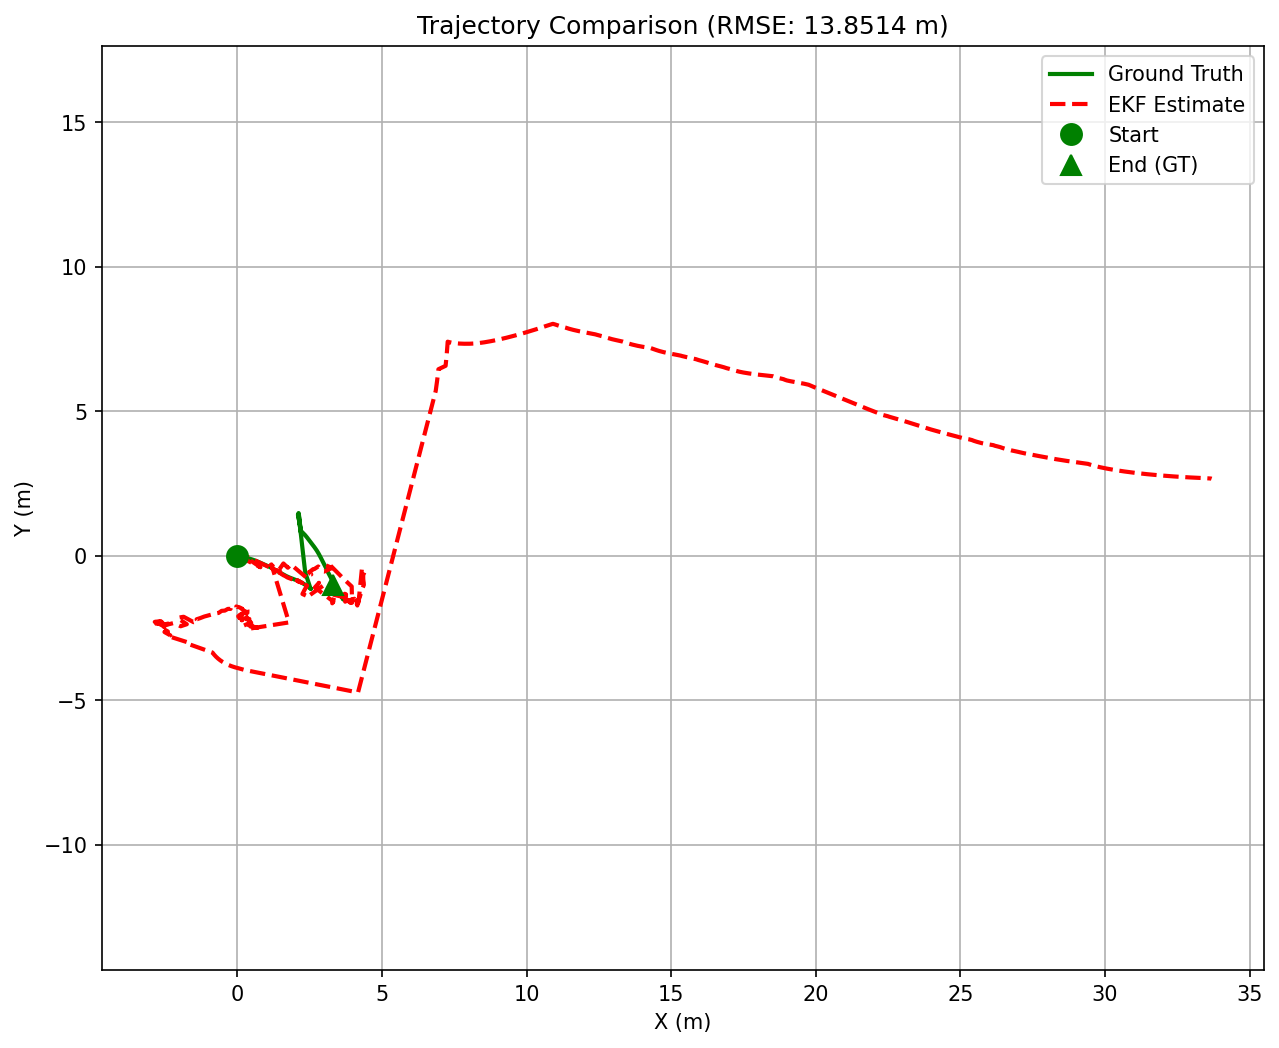
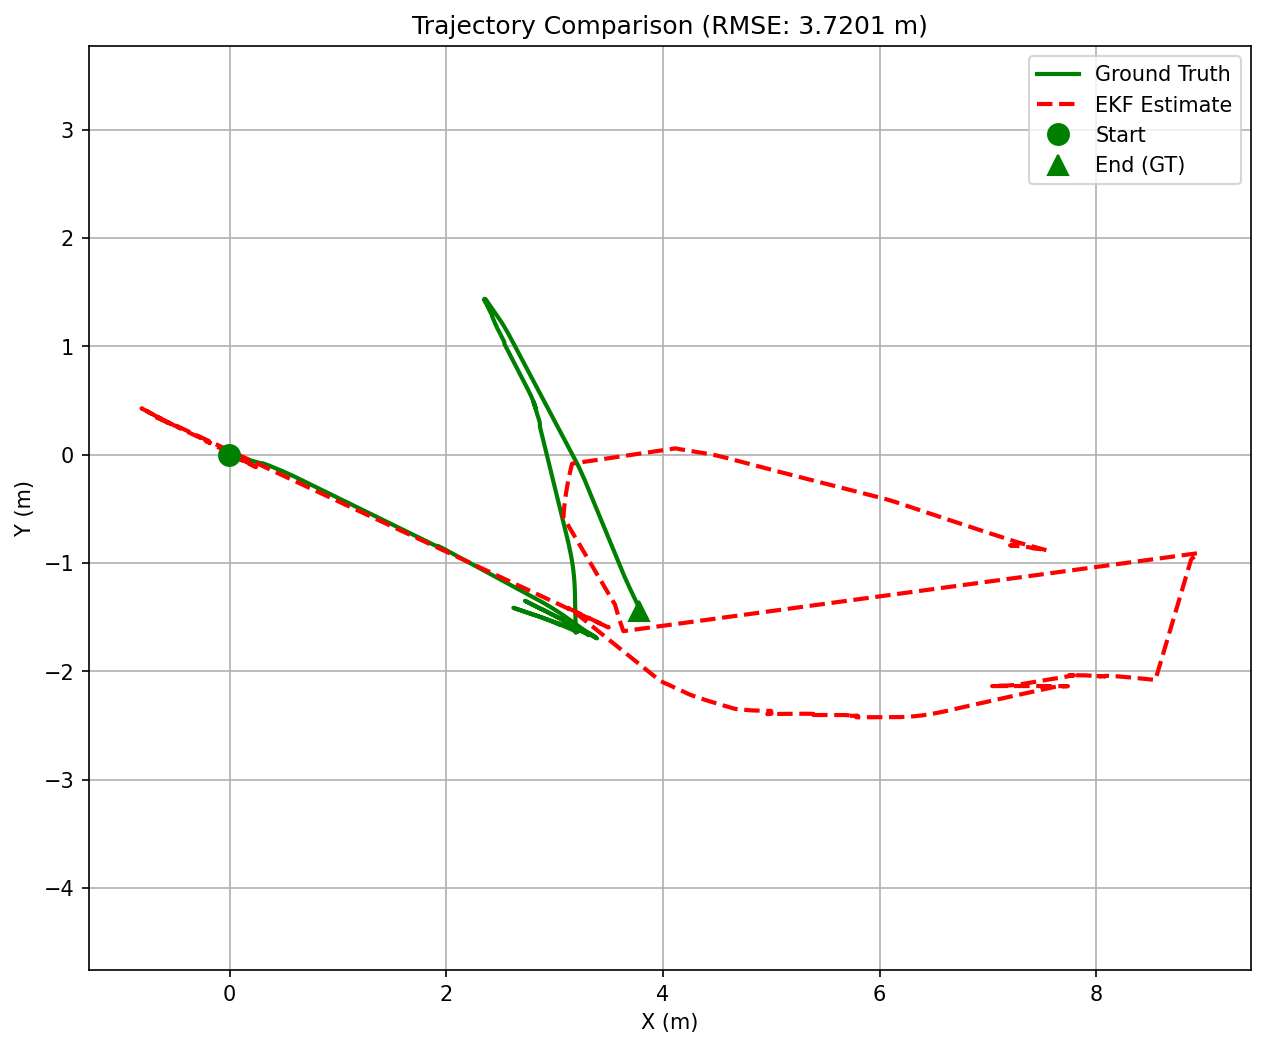
feat: update EKF parameters for improved accuracy; adjust measurement noise and bias random walk settings

diff --git a/src/vio_ekf/src/ekf_node.py b/src/vio_ekf/src/ekf_node.py
@@ -42,9 +42,9 @@ class EKFNode(Node):
         self.sigma_g = 0.03     # Gyro noise stddev (rad/s) - matches observed Y-axis std
         self.Q_a = self.sigma_a ** 2  # Accel noise variance
         self.Q_g = self.sigma_g ** 2  # Gyro noise variance
-        self.Q_ba = 1e-5  # Accel bias random walk - enables learning
-        self.Q_bg = 1e-5  # Gyro bias random walk - enables learning
-        self.R_cam = 15.0   # Pixel measurement noise - trust vision more
+        self.Q_ba = 1e-7  # Accel bias random walk - enables learning
+        self.Q_bg = 1e-7  # Gyro bias random walk - enables learning
+        self.R_cam = 10.0   # Pixel measurement noise - trust vision more
 
         # Outlier rejection settings
         self.mahalanobis_threshold = 5.0  # Chi-squared 95% for 2 DOF is 5.99
@@ -279,6 +279,8 @@ class EKFNode(Node):
             self.x[3:6] = 0.0  # Reset Velocity
             self.x[7:10] = 0.0 # Reset Tilt (x, y, z components of quat)
             self.x[6] = 1.0    # Reset w component
+
+            self.x[10:16] = 0.0 # Reset Biases
             self.P = np.eye(15) * 1.0 # Reset Covariance
             return # Skip integration this step
 
